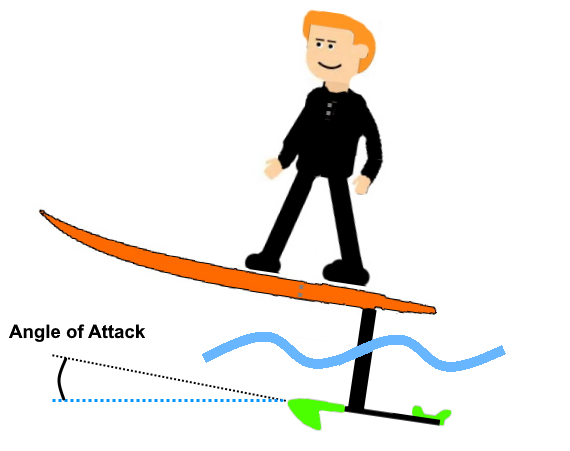
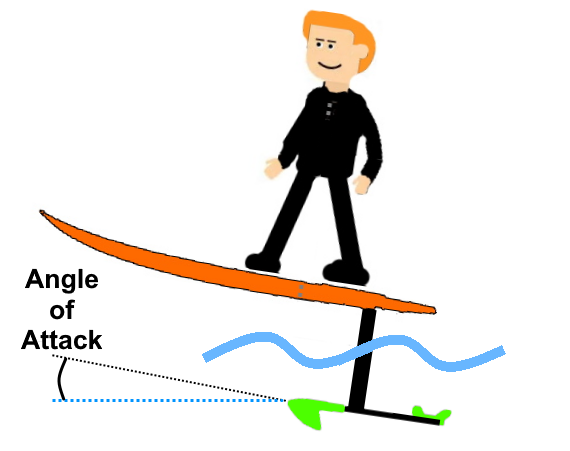
p

Changed region(s): [[0.0, 0.5898, 0.2684, 0.7761]]

diff --git a/whatisahyrdofoil.html b/whatisahyrdofoil.html
@@ -44,7 +44,7 @@
         <p>On this page we'll explore the basics of how a hydrofoil works. Simply, a hydrofoil is a wing shape that produces lift (and drag) when moving through water:</p>
 
         <div class = "diagrams">
-          <img src = "Aerofoil1.jpg" width="200px" height="100px" />
+          <img src = "Aerofoil1.jpg" width="300px" height="150px" />
         </div>
 
         
@@ -65,7 +65,7 @@
         
         
         <div class="sections1">
-          <div class = "diagrams">
+          <div class = "diagrams_centre_noborder">
             <img src="foil_sizes.png" height="120px" width = "120px"/>
           </div>
           <div>
@@ -80,8 +80,9 @@
           <h3>2. Speed</h3>
 
           <div class="sections1">
+            <div class = "diagrams_centre_noborder">
           <img src = "speed_icon.png" height="100px" width="100px"/>
-
+            </div>
             <div>
               <p>A hydrofoil produces more lift at faster speeds. </p>
               <p>Lift increases with the square of the speed, so going twice as fast results in four times as much lift.</p>
@@ -97,7 +98,7 @@
         <p>The <i>Angle of Attack</i> is the angle between the foil and the incoming water flow:</p>
 
         <div class = "diagrams">
-        <img src = "AngleofAttack.jpg" height = "100px" width = "260px" />
+        <img src = "AngleofAttack.jpg" height = "160px" width = "360px" />
         </div>
 
         <p>As <i>Angle of Attack</i> increases, more lift is produced. However, there is a limit to this. At an <i>Angle of Attack</i> of between 10 and 20 degrees (depending on the foil), it can no longer produce more lift with increasing <i>Angle of Attack</i>, and lift starts decreasing. This is know as a stall.</p>
@@ -123,7 +124,9 @@
           
           </div>
 
-        <p>This lift needs to be constant at different speeds. However, without changing anything, more speed equals more lift, and less speed means less lift.</p>
+          <h4>Speed vs Lift Coefficient</h4>
+
+        <p>Lift needs to equal weight at different speeds. However, without changing anything, more speed equals more lift, and less speed means less lift.</p>
         <p>To compensate, the rider keeps total lift constant by varying the <i>Angle of Attack</i> to control the <i>Lift Coefficient</i> . At slow speeds a large <i>Angle of Attack</i> is required, and at high speeds a low <i>Angle of Attack</i>. So as a foil accelerates, the rider is required to lower the nose of the board to maintain the correct amount of lift.</p>
 
         <div id = "slowfast">
@@ -137,10 +140,34 @@
           </div>
         </div>
 
+        <p>The rider will do this instinctively. It happens as follows:</p> 
+
+        <ol>
+          <li>The rider goes a bit faster. This extra speed equals extra lift, so Lift is bigger than Weight</li>
+          <li>Consequently this pushes the rider higher. They can feel and see this, so:</li>
+          <li>They put pressure on the front foot to lower the nose slightly, reducing <i>Angle of Attack</i></li>
+          <li>The reduced <i>Angle of Attack</i> means that Lift now equals Weight</li>
+        </ol>
+
+        <p>They do the opposite if they slow down, increasing <i>Angle of Attack</i></p>
+
         <h4>High Speed control</h4>
-       <p>Because lift increases as the square of speed, controlling the foil by adjusting <i>Angle of Attack</i> becomes much harder at high speed (for the foil), as the adjustments to Angle of Attack become much finer. </p>
-        <p>For example, if at 10kts a foiler needs to keep <i>Angle of Attack</i> within a range of 0.4 degrees, they will need to keep it within a range of 0.1 degrees at 20kts</p>
-       <p>Using a smaller foil makes controlling higher speeds easier, but increases the stall speed</p>
+        <p><i>Angle of Attack</i> is finely controlled by the rider. Too much and the foil produces too much lift</p>
+        <p>Because lift increases as the square of speed, controlling the foil by adjusting <i>Angle of Attack</i> becomes much harder at high speed (for the foil) </p>
+        <p>For example, at 10kts changing the <i>Angle of Attack</i> by 1 degree might change Lift by 20%. But at 20kts, changing <i>Angle of Attack</i> by 1 degree changes Lift by 80%.</p>
+        <p>So, at 20kts the rider must be 4 times more precise with their <i>Angle of Attack</i> than at 10kts</p>
+        <p>There comes a speed where <i>Angle of Attack</i> control becomes impossible, even for the most gifted of riders</p>
+        
+
+        <h4>Foil Size vs Speed</h4>
+
+        <p>We've seen already that smaller foils produce less lift that bigger ones.</p>
+        <p>If Size becomes smaller, speed must increase to produce enough lift (for the same <i>Angle of Attack</i>) </p>
+        <p>Smaller foils will:</p>
+        <ul>
+          <li>Increase stall speed</li>
+          <li>Allow higher speeds before High Speed Control becomes an issue</li>
+        </ul>
 
        <div class = "summary">
         <h2>Summary</h2>

diff --git a/ridingafoil.html b/ridingafoil.html
@@ -160,7 +160,22 @@
 
     <div class="gap"></div>
 
+    <h3>Total Bodyweight Movement</h3>
+
+    <p>Putting together both Upward Lift and NOSE UP/DOWN rotation:</p>
+    <p>We are foiling at 10kts, but a gust increases this to 15kts. What are the effects?</p>
+    <ol>
+      <li class = "listmargin">Extra speed equals extra lift. Therefore the rider needs to reduce <i>Angle of Attack</i>, by lowering the nose of the board. They do this with momentary front foot pressure</li>
+      <li class = "listmargin">This extra speed might change the <i>Balance Point</i>
+      <ul>
+        <li class = "listmargin">If the stabiliser is large (NOSE UP at high speed), it is likely that the <i>Balance Point</i> moves forward. So the rider will need to shift their bodyweight forward</li>
+        <li class = "listmargin">For a neutral setup, the <i>Balance Point</i> stays the same. So having momentarily put the nose down in 1. with a tap of front foot pressure, they now return the bodyweight to where it was before </li>
+        <li class = "listmargin">For a setup with NOSE DOWN at high speed, the <i>Balance Point</i> moves back. So having momentarily put the nose down in 1. with a tap of front pressure, they now shift their bodyweight further back than it was before. This feels quite unusual. </li>
+      </ul>
+      </li>
+    </ol>
     
+    <p><b>I really want to emphasise that changing <i>Angle of Attack</i> with momentary foot pressure, and reacting to the change of <i>Balance Point</i> by shifting bodyweight are two separate things, even though for many setups (slight NOSE UP at higher speed) they feel like the same thing.</b> </p>
     
     
 

diff --git a/frontwingsandstabs.html b/frontwingsandstabs.html
@@ -81,7 +81,7 @@
 
         <h4>Foil and stabiliser lift</h4>
         
-        <p>The front foil and stabiliser combined will try and lift the NOSE UP. This mainly comes from the stabiliser, although the front foil can have an effect too:</p>
+        <p>The front foil and stabiliser lift combined will try and rotate the NOSE UP. This mainly comes from the stabiliser, although the front foil can have an effect too:</p>
         
         <div class="sections1">
           <div class = "diagrams">
@@ -91,7 +91,7 @@
 
           <div class = "diagrams">
             <img src = "foil4.jpg" width="185px" height="185px" />
-            <p>The front foil centre of lift is normally near the riders centre of mass, meaning small pitch effects. In some instances (e.g. low speed) this isn't the case</p>
+            <p>The front foil centre of pressure (where the lift comes from) is normally near the riders centre of mass, meaning small pitch effects. In some instances (e.g. low speed) this isn't the case</p>
           </div>
 
         </div>

diff --git a/styles.css b/styles.css
@@ -324,6 +324,17 @@ img:active {
     border: 1px;
     border-style: solid;
   }
+
+  .diagrams_centre_noborder {
+      
+      
+    display: flex;
+    justify-content: center;
+    align-items: center;
+   
+}
+
+
   
 
     .diagrams {
@@ -422,5 +433,5 @@ img:active {
     }
   
     .listmargin {
-      margin: 10px;
+      margin: 8px;
     }
